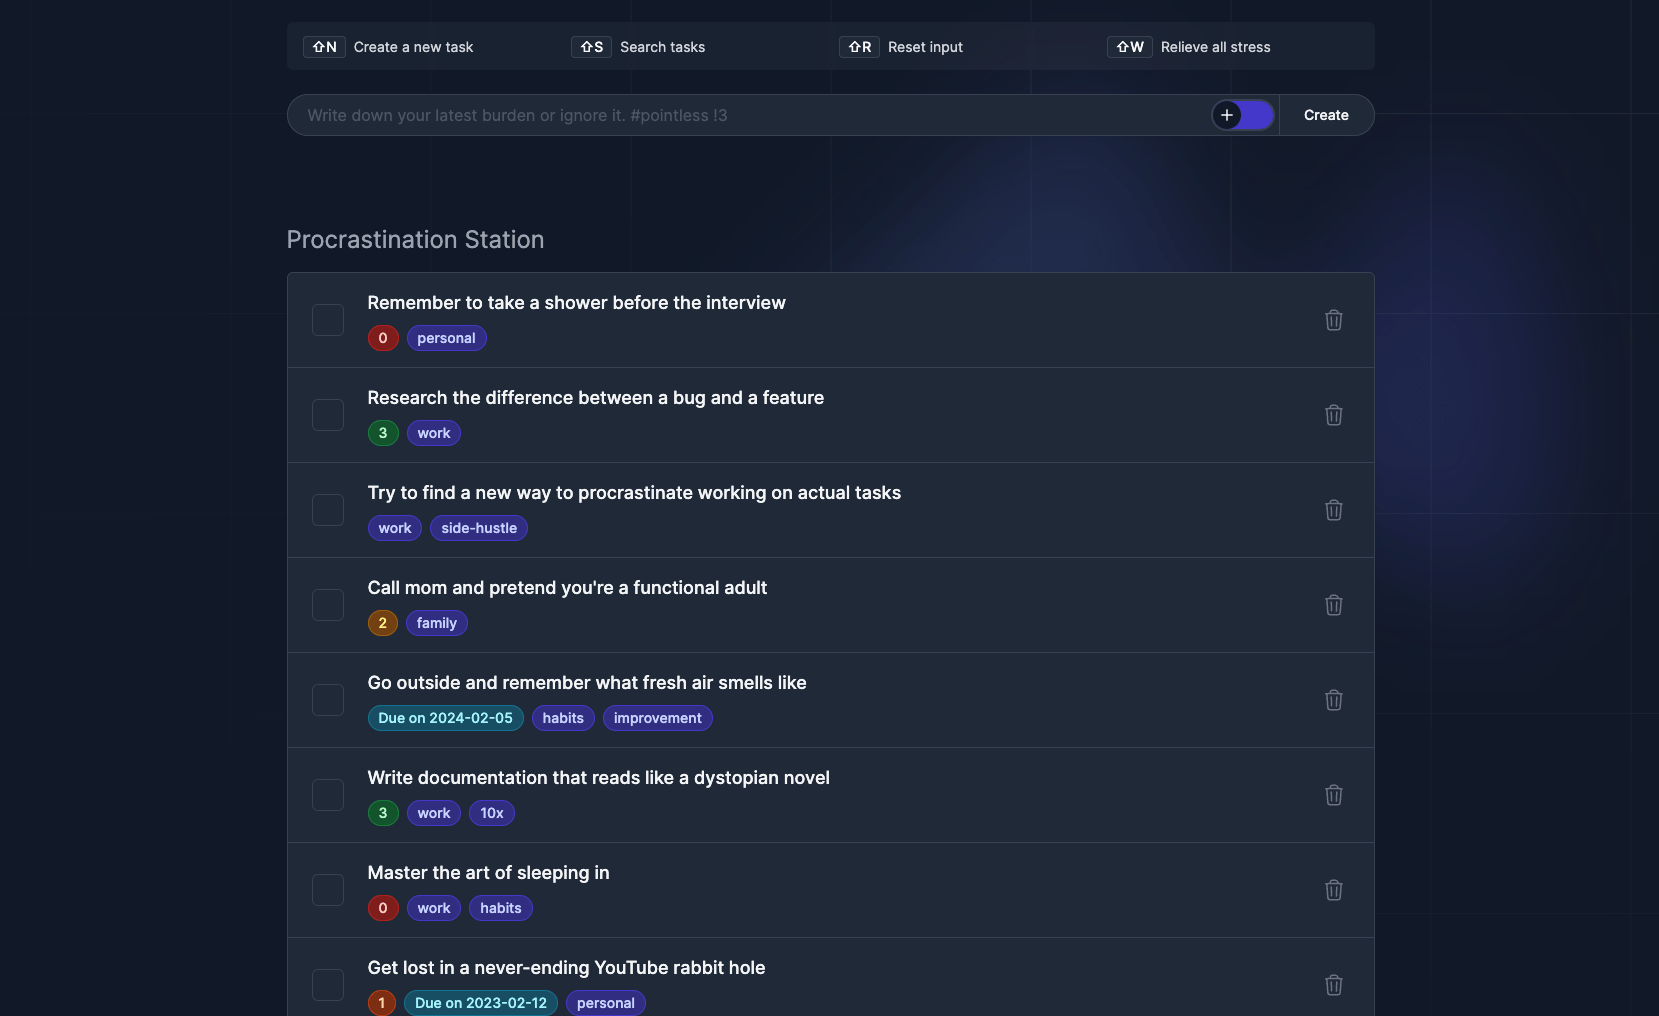
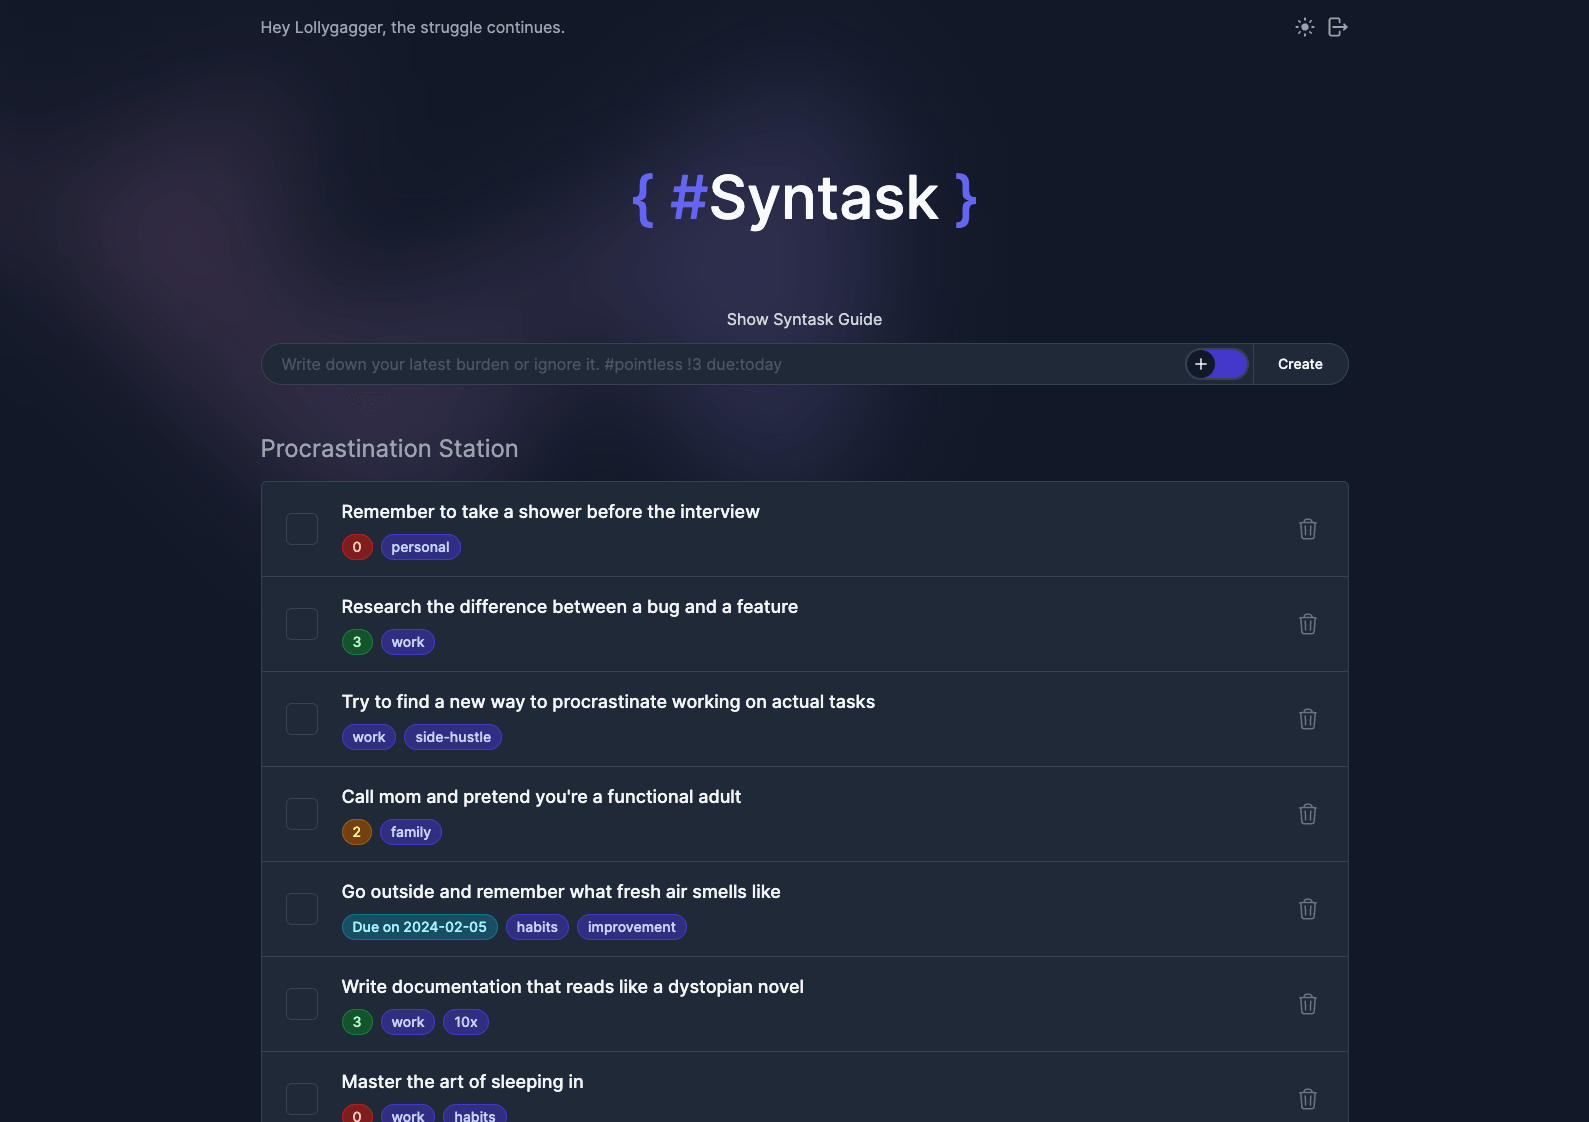
cleaner, less distracting dashboard

diff --git a/frontend/src/views/Dashboard.vue b/frontend/src/views/Dashboard.vue
@@ -1,25 +1,16 @@
 <template>
   <div class="relative isolate overflow-hidden bg-gray-900 min-h-screen flex justify-center">
-    <svg class="absolute inset-0 -z-10 h-full w-full stroke-white/10 [mask-image:radial-gradient(100%_100%_at_top_right,white,transparent)]" aria-hidden="true">
-      <defs>
-        <pattern id="983e3e4c-de6d-4c3f-8d64-b9761d1534cc" width="200" height="200" x="50%" y="-1" patternUnits="userSpaceOnUse">
-          <path d="M.5 200V.5H200" fill="none" />
-        </pattern>
-      </defs>
-      <svg x="50%" y="-1" class="overflow-visible fill-gray-800/20">
-        <path d="M-200 0h201v201h-201Z M600 0h201v201h-201Z M-400 600h201v201h-201Z M200 800h201v201h-201Z" stroke-width="0" />
+    <div class="absolute inset-x-0 top-[-10rem] -z-10 transform-gpu overflow-hidden blur-3xl sm:top-[-10rem]">
+      <svg class="relative left-[calc(50%-11rem)] -z-10 h-[21.1875rem] max-w-none -translate-x-1/2 rotate-[30deg] sm:left-[calc(50%-30rem)] sm:h-[42.375rem]" viewBox="0 0 1155 678">
+        <path fill="url(#f4773080-2a16-4ab4-9fd7-579fec69a4f7)" fill-opacity=".2" d="M317.219 518.975L203.852 678 0 438.341l317.219 80.634 204.172-286.402c1.307 132.337 45.083 346.658 209.733 145.248C936.936 126.058 882.053-94.234 1031.02 41.331c119.18 108.451 130.68 295.337 121.53 375.223L855 299l21.173 362.054-558.954-142.079z" />
+        <defs>
+          <linearGradient id="f4773080-2a16-4ab4-9fd7-579fec69a4f7" x1="1155.49" x2="-78.208" y1=".177" y2="474.645" gradientUnits="userSpaceOnUse">
+            <stop stop-color="#9089FC" />
+            <stop offset="1" stop-color="#FF80B5" />
+          </linearGradient>
+        </defs>
       </svg>
-      <rect width="100%" height="100%" stroke-width="0" fill="url(#983e3e4c-de6d-4c3f-8d64-b9761d1534cc)" />
-    </svg>
-    <svg viewBox="0 0 1108 632" aria-hidden="true" class="absolute top-10 left-[calc(50%-4rem)] -z-10 w-[69.25rem] max-w-none transform-gpu blur-3xl sm:left-[calc(50%-18rem)] lg:left-48 lg:top-[calc(50%-30rem)] xl:left-[calc(50%-24rem)]">
-      <path fill="url(#175c433f-44f6-4d59-93f0-c5c51ad5566d)" fill-opacity=".2" d="M235.233 402.609 57.541 321.573.83 631.05l234.404-228.441 320.018 145.945c-65.036-115.261-134.286-322.756 109.01-230.655C968.382 433.026 1031 651.247 1092.23 459.36c48.98-153.51-34.51-321.107-82.37-385.717L810.952 324.222 648.261.088 235.233 402.609Z" />
-      <defs>
-        <linearGradient id="175c433f-44f6-4d59-93f0-c5c51ad5566d" x1="1220.59" x2="-85.053" y1="432.766" y2="638.714" gradientUnits="userSpaceOnUse">
-          <stop stop-color="#4F46E5" />
-          <stop offset="1" stop-color="#80CAFF" />
-        </linearGradient>
-      </defs>
-    </svg>
+    </div>
     <div class="max-w-6xl w-full">
       <div class="mx-auto px-6 max-w-6xl w-full pt-4 flex lg:px-8 justify-between items-center">
         <div class="pr-8">

diff --git a/frontend/src/views/Landing.vue b/frontend/src/views/Landing.vue
@@ -25,11 +25,11 @@
         <Logo />
         <h1 class="mt-10 text-4xl font-bold tracking-tight text-gray-50 sm:text-5xl">Your One-Stop-Shop for Unfinished Business</h1>
         <p class="mt-6 text-lg leading-8 text-gray-300">Finally, a to-do list app that never runs out of tasks! Because let's be real, your responsibilities are never-ending, so why should your to-do list be any different?</p>
-        <div class="mt-10 flex items-center gap-x-6">
-          <router-link to="login" class="rounded-md bg-indigo-500 px-3.5 py-1.5 text-base font-semibold leading-7 text-indigo-50 shadow-sm hover:bg-indigo-400 focus-visible:outline focus-visible:outline-2 focus-visible:outline-offset-2 focus-visible:outline-indigo-400">
+        <div class="mt-6 sm:mt-10 flex flex-wrap items-center gap-x-6">
+          <router-link to="login" class="mt-4 sm:mt-0 rounded-md bg-indigo-500 px-3.5 py-1.5 sm:text-base font-semibold leading-7 text-indigo-50 shadow-sm hover:bg-indigo-400 focus-visible:outline focus-visible:outline-2 focus-visible:outline-offset-2 focus-visible:outline-indigo-400">
             Login and Embrace the Chaos
           </router-link>
-          <router-link to="register" class="text-base font-semibold leading-7 text-gray-50">Join the Fun (Not Really) <span aria-hidden="true">→</span></router-link>
+          <router-link to="register" class="mt-4 sm:mt-0 text-base font-semibold leading-7 text-gray-50">Join the Fun (Not Really) <span aria-hidden="true">→</span></router-link>
         </div>
       </div>
       <div class="mx-auto mt-16 flex max-w-2xl sm:mt-24 lg:ml-10 lg:mt-0 lg:mr-0 lg:max-w-none lg:flex-none xl:ml-32">
